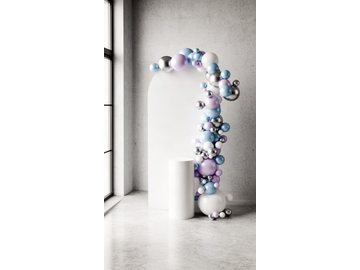
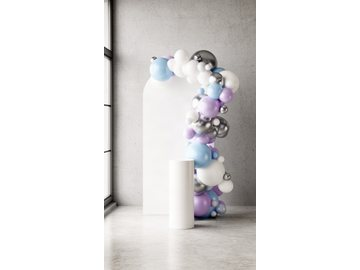
Single Arch: reference garland, 100x220 board, front view, clean studio
Working Single Arch alone, as asked.

1. BALLOONS to match the reference. The size caps were the real limit: on this
   board p.pw*0.17 is ~67px but rLarge was capped at 50, so every balloon came
   out the same modest size and the band read as small and scattered beside the
   board. The lone-arch composition now uses its own larger radii, packs tighter
   (nesting 0.55 -> 0.74, so balloons touch instead of stringing out) and runs a
   narrower band (1.15 vs 1.7 of rLarge) so the ribbon hugs the board edge
   instead of drifting into the wall. Colours untouched. Every other layout
   keeps the values it was approved with — all of this is gated on the
   lone-arch flag.

2. STUDIO. Root cause found, and it was mine: moving lone-arch scenes to the
   non-flash model on 2026-09-09 silently moved the balloon colour-lock pass
   too, because that pass reuses editModelId. That pass is a full img2img edit
   and the non-flash model repaints the room every time. Same input image, same
   prompt, same seed, only the model differing:
     flash  wall L 185.7 sd 18.9 | floor 199.3 sd 20.5
     full   wall L 177.8 sd 27.7 | floor 187.8 sd 30.4
   The primary keeps the full model — that is what fixed the pale colour — and
   the recolour touch-up goes back to flash. Measured end to end on the arch
   scene: wall sd 27.7 -> 14.2, floor sd 30.4 -> 14.6 and brighter (187.8 ->
   205.1). Round re-rendered as a check: unchanged, still correct.
[…]

Changed region(s): [[0.275, 0.0, 0.7333, 0.8889], [0.3056, 0.9185, 0.3361, 1.0]]

diff --git a/lib/generateStructureSilhouette.ts b/lib/generateStructureSilhouette.ts
@@ -1463,7 +1463,9 @@ export function generateStructureSilhouette(
           // balloons touch and nest a little; they do not swallow each other.
           // Double Arch is left alone at its previous behaviour, which the
           // customer approved, by allowing it a much deeper limit.
-          const maxNestFrac = looseSpacing ? 0.55 : 0.95;
+          // crownOverTop packs tighter than plain looseSpacing: the reference
+          // band is continuous, with balloons touching, not a spaced-out string.
+          const maxNestFrac = crownOverTop ? 0.74 : looseSpacing ? 0.55 : 0.95;
           // Colour is chosen by which one currently covers the least AREA, not
           // by a running counter. Balloon sizes vary a lot here — a palette can
           // come out even by count and still look dominated by one colour if it
@@ -1512,15 +1514,21 @@ export function generateStructureSilhouette(
           // the guide canvas now matching the rendered size, a Double Arch
           // panel is wide enough to reach them too, so both layouts draw the
           // same balloons with no special-casing.
-          const rLarge  = Math.max(20, Math.min(50, p.pw * 0.17));
-          const rMed    = Math.max(14, Math.min(34, p.pw * 0.12));
-          const rSmall  = Math.max(9,  Math.min(22, p.pw * 0.08));
+          // 2026-09-09: the lone-arch composition uses BIGGER balloons. The caps
+          // were what limited them — on a 100x220 arch p.pw*0.17 is 67px but the
+          // cap held rLarge at 50, so every balloon came out the same modest
+          // size and the band read as small and scattered next to the board. The
+          // customer reference is a chunky ribbon of large balloons hugging the
+          // edge. Other layouts keep the values they were approved with.
+          const rLarge  = crownOverTop ? Math.max(26, Math.min(80, p.pw * 0.23))  : Math.max(20, Math.min(50, p.pw * 0.17));
+          const rMed    = crownOverTop ? Math.max(18, Math.min(54, p.pw * 0.160)) : Math.max(14, Math.min(34, p.pw * 0.12));
+          const rSmall  = crownOverTop ? Math.max(11, Math.min(34, p.pw * 0.105)) : Math.max(9,  Math.min(22, p.pw * 0.08));
           // 36-inch statement anchor (tight/double-arch only): a real 36"
           // balloon is ~3x a 12" one. The guide must SHOW that scale — with
           // only L/M/S circles the model rendered a uniform mid-size garland
           // (2026-07-20 product feedback: balloons too small, not enough mass
           // low down; sizes must read as 36" / 12" / 5").
-          const rXL     = Math.max(30, Math.min(80, p.pw * 0.28));
+          const rXL     = crownOverTop ? Math.max(36, Math.min(98, p.pw * 0.30)) : Math.max(30, Math.min(80, p.pw * 0.28));
 
           // 2026-09-02: rendering the guide to PNG and actually LOOKING at it
           // finally explained the flat-disc bug that five prompt/count fixes
@@ -1664,7 +1672,11 @@ export function generateStructureSilhouette(
             // radius rArc about the panel centre, so its last balloons sit up
             // to 0.6 * rArc inboard. Single Arch's crown does the same and
             // reads correctly there, so it is left alone.
-            const off = (rnd() * 1.7 - 0.75) * rLarge * spread;
+            // Narrower across the band on the lone arch, so the ribbon stays
+            // against the board edge instead of drifting into the wall.
+            const bandW = crownOverTop ? 1.15 : 1.7;
+            const bandO = crownOverTop ? 0.52 : 0.75;
+            const off = (rnd() * bandW - bandO) * rLarge * spread;
             put(edgeX + dir * off, climbY, rBall);
 
             // A real garland is two balloons deep, not a single file. Most

diff --git a/lib/config.ts b/lib/config.ts
@@ -267,7 +267,7 @@ export const PACKAGES: Package[] = [
     bestFor: "Villa gardens, restaurant corners",
     defaultDecor: {
       backdropItems: [
-        { id: "large", type: "arch", sizeId: "large", widthCm: 120, heightCm: 220, color: "", text: { enabled: false, value: "", fontStyle: "script" as const, color: "white" }, graphic: { enabled: false, theme: "", style: "illustrated" as const } },
+        { id: "large", type: "arch", sizeId: "large", widthCm: 100, heightCm: 220, color: "", text: { enabled: false, value: "", fontStyle: "script" as const, color: "white" }, graphic: { enabled: false, theme: "", style: "illustrated" as const } },
         { id: "small", type: "arch", sizeId: "small", widthCm: 80,  heightCm: 180, color: "", text: { enabled: false, value: "", fontStyle: "script" as const, color: "white" }, graphic: { enabled: false, theme: "", style: "illustrated" as const } },
       ],
       balloonStyle: "full",
@@ -292,7 +292,7 @@ export const PACKAGES: Package[] = [
     bestFor: "Full venue takeovers",
     defaultDecor: {
       backdropItems: [
-        { id: "large",  type: "arch", sizeId: "large",  widthCm: 120, heightCm: 220, color: "", text: { enabled: false, value: "", fontStyle: "script" as const, color: "white" }, graphic: { enabled: false, theme: "", style: "illustrated" as const } },
+        { id: "large",  type: "arch", sizeId: "large",  widthCm: 100, heightCm: 220, color: "", text: { enabled: false, value: "", fontStyle: "script" as const, color: "white" }, graphic: { enabled: false, theme: "", style: "illustrated" as const } },
         { id: "medium", type: "arch", sizeId: "medium", widthCm: 100, heightCm: 200, color: "", text: { enabled: false, value: "", fontStyle: "script" as const, color: "white" }, graphic: { enabled: false, theme: "", style: "illustrated" as const } },
         { id: "small",  type: "arch", sizeId: "small",  widthCm: 80,  heightCm: 180, color: "", text: { enabled: false, value: "", fontStyle: "script" as const, color: "white" }, graphic: { enabled: false, theme: "", style: "illustrated" as const } },
       ],
@@ -346,7 +346,8 @@ export interface ArchSize {
 export const ARCH_SIZES: ArchSize[] = [
   { id: "small",  label: "Small",             ftLabel: "2.6 x 5.9 ft", widthCm: 80,  heightCm: 180 },
   { id: "medium", label: "Medium / Standard", ftLabel: "3.3 x 6.6 ft", widthCm: 100, heightCm: 200 },
-  { id: "large",  label: "Large",             ftLabel: "4.0 x 7.2 ft", widthCm: 120, heightCm: 220 },
+  // 2026-09-10: 120 -> 100 wide. The customer set the real board: 100cm x 220cm.
+  { id: "large",  label: "Large",             ftLabel: "3.3 x 7.2 ft", widthCm: 100, heightCm: 220 },
 ];
 
 export type RectSizeId = "rect_100x200" | "rect_80x180";

diff --git a/lib/renderPrompts/buildLayoutRefEditPrompt.ts b/lib/renderPrompts/buildLayoutRefEditPrompt.ts
@@ -831,8 +831,18 @@ export function buildLayoutRefEditPrompt(
   // by default — the customer wants the setup square to camera — and it drops
   // the plinth on a lone arch that has no standee. Both are stated up front,
   // where this pipeline actually listens.
-  const frontCameraLine = `The camera looks STRAIGHT AT the setup, square on and level — a flat front view, ` +
-    `not angled, not a three-quarter view, not from the side. `;
+  // 2026-09-10: tightened. "Square on" alone still allowed a low, wide-angle
+  // shot with the floor rising and the board leaning; the customer wants the
+  // plain eye-level product view of their reference.
+  // 2026-09-09: the ROOM CORNER is what makes it read as an angled shot. The
+  // line already said "flat frontal", and the render kept putting a receding
+  // side wall and a corner in frame anyway, which reads as a three-quarter view
+  // however square the backdrop itself is.
+  const frontCameraLine = `Camera at standing eye level, centred on the backdrop, looking STRAIGHT AT it: a flat ` +
+    `frontal product photo. The backdrop's vertical edges are perfectly vertical and the floor line is ` +
+    `horizontal — no angle, no three-quarter view, no low or high viewpoint, no wide-angle distortion. ` +
+    `One flat back wall parallel to the camera fills the frame behind the setup: no room corner, no side ` +
+    `wall running away from the camera, no ceiling. `;
   const frontPlinthLine = sceneModel.plinths.length > 0
     ? `${sceneModel.plinths.length === 1 ? "A" : String(sceneModel.plinths.length)} white cylindrical ` +
       `pedestal column${sceneModel.plinths.length === 1 ? "" : "s"} stand${sceneModel.plinths.length === 1 ? "s" : ""} ` +

diff --git a/app/api/generate-controlled-render/route.ts b/app/api/generate-controlled-render/route.ts
@@ -159,7 +159,7 @@ function isAuthOrBillingError(message: string | null): boolean {
 // process (sufficient for a single-instance/dev deployment — not a
 // distributed cache). Bump RENDER_CACHE_VERSION whenever a prompt/negative
 // change should invalidate previously cached (now-stale) renders.
-const RENDER_CACHE_VERSION = "light-room-also-on-edit-path-v89";
+const RENDER_CACHE_VERSION = "arch-100x220-big-tight-garland-v90";
 
 interface RenderCacheEntry {
   imageUrl: string;
@@ -1971,7 +1971,17 @@ forbiddenBalloonColorLabels: hasSempertexLock
               `platform or base of any kind — the floor stays bare. `) +
           `Do not add any new object that was not already in the image.`;
 
-        const lockResult = await fal.subscribe(editModelId, {
+        // 2026-09-09: the colour-lock pass runs on FLASH, not on whatever the
+        // primary used. Measured on one render, same input image, same prompt,
+        // same seed — only the model differs:
+        //   flash : wall L 185.7 sd 18.9 | floor 199.3 sd 20.5
+        //   full  : wall L 177.8 sd 27.7 | floor 187.8 sd 30.4
+        // This is the whole reason the studio turned dark and blotchy: moving
+        // lone-arch scenes to the full model on 2026-09-09 silently moved this
+        // pass too, because it reused editModelId. The primary keeps the full
+        // model (that is what fixed the pale colour); the recolour is a light
+        // touch-up and flash does it without repainting the room.
+        const lockResult = await fal.subscribe("fal-ai/flux-2/flash/edit", {
           // eslint-disable-next-line @typescript-eslint/no-explicit-any
           input: {
             prompt:        lockPrompt,

diff --git a/app/configure/page.tsx b/app/configure/page.tsx
@@ -1042,9 +1042,12 @@ function DecorStep({
     const arches = config.decor.backdropItems.filter((i: BackdropItem) => i.type === "arch");
     if (arches.length !== 1) return;
     const only = arches[0];
-    if (only.sizeId === "large") return;
     const large = ARCH_SIZES.find((s) => s.id === "large");
     if (!large) return;
+    // 2026-09-10: also refresh a board that is already Large but carries stale
+    // dimensions — the Large board changed from 120x220 to 100x220 and a saved
+    // draft would otherwise keep rendering at the old width forever.
+    if (only.sizeId === "large" && only.widthCm === large.widthCm && only.heightCm === large.heightCm) return;
     patchDecor({
       backdropItems: config.decor.backdropItems.map((i: BackdropItem) =>
         i.id === only.id

diff --git a/lib/layoutDimensions.ts b/lib/layoutDimensions.ts
@@ -8,7 +8,7 @@
 export const ARCH_DIMS = {
   small:  { label: "Small",            widthCm: 80,  heightCm: 180, ftLabel: "2.6 x 5.9 ft" },
   medium: { label: "Medium / Standard",widthCm: 100, heightCm: 200, ftLabel: "3.3 x 6.6 ft" },
-  large:  { label: "Large",            widthCm: 120, heightCm: 220, ftLabel: "4.0 x 7.2 ft" },
+  large:  { label: "Large",            widthCm: 100, heightCm: 220, ftLabel: "3.3 x 7.2 ft" },
 } as const;
 
 export const RECT_DIMS = {
